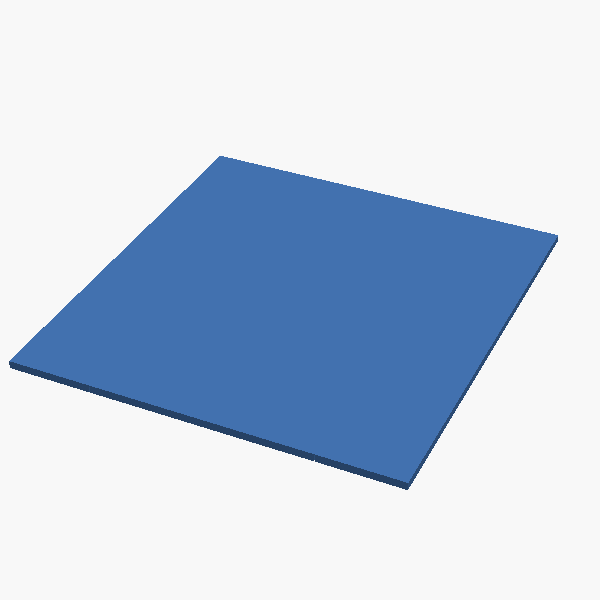
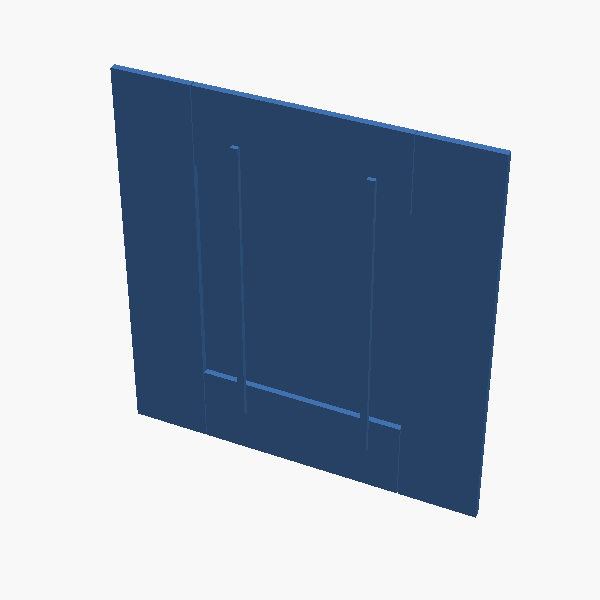
organization

diff --git a/office floor project/README.md b/office floor project/README.md
@@ -48,9 +48,12 @@
 ## 2025-04-13 lvp placement prototype
 
 <!-- AUTOGEN:START 2025-04-13 lvp placement prototype -->
+![2025-04-13 lvp placement prototype](renders/2025-04-13%20lvp%20placement%20prototype.png)
+
 **Files:**
 
 - SCAD: [2025-04-13 lvp placement prototype.scad](2025-04-13%20lvp%20placement%20prototype.scad)
+- STL: [2025-04-13 lvp placement prototype.stl](2025-04-13%20lvp%20placement%20prototype.stl)
 <!-- AUTOGEN:END 2025-04-13 lvp placement prototype -->
 
 ## 2025-06-29 fast prototype corner piece
@@ -86,28 +89,6 @@
 - STL: [2025-10-19 trap door wedge for disassembly.stl](2025-10-19%20trap%20door%20wedge%20for%20disassembly.stl)
 <!-- AUTOGEN:END 2025-10-19 trap door wedge for disassembly -->
 
-## 2025-11-01 level floor
-
-<!-- AUTOGEN:START 2025-11-01 level floor -->
-![2025-11-01 level floor](renders/2025-11-01%20level%20floor.png)
-
-**Files:**
-
-- SCAD: [2025-11-01 level floor.scad](2025-11-01%20level%20floor.scad)
-- STL: [2025-11-01 level floor.stl](2025-11-01%20level%20floor.stl)
-<!-- AUTOGEN:END 2025-11-01 level floor -->
-
-## 2025-11-15 trap door hinge foot guards
-
-<!-- AUTOGEN:START 2025-11-15 trap door hinge foot guards -->
-![2025-11-15 trap door hinge foot guards](renders/2025-11-15%20trap%20door%20hinge%20foot%20guards.png)
-
-**Files:**
-
-- SCAD: [2025-11-15 trap door hinge foot guards.scad](2025-11-15%20trap%20door%20hinge%20foot%20guards.scad)
-- STL: [2025-11-15 trap door hinge foot guards.stl](2025-11-15%20trap%20door%20hinge%20foot%20guards.stl)
-<!-- AUTOGEN:END 2025-11-15 trap door hinge foot guards -->
-
 ## 2025-12-12 level floor 2
 
 <!-- AUTOGEN:START 2025-12-12 level floor 2 -->
@@ -119,14 +100,3 @@
 - STL: [2025-12-12 level floor 2.stl](2025-12-12%20level%20floor%202.stl)
 - Variant STL: [2025-12-12 level floor 2 - all.stl](2025-12-12%20level%20floor%202%20-%20all.stl)
 <!-- AUTOGEN:END 2025-12-12 level floor 2 -->
-
-## 2025-12-28 trap door hinge foot guard 2
-
-<!-- AUTOGEN:START 2025-12-28 trap door hinge foot guard 2 -->
-![2025-12-28 trap door hinge foot guard 2](renders/2025-12-28%20trap%20door%20hinge%20foot%20guard%202.png)
-
-**Files:**
-
-- SCAD: [2025-12-28 trap door hinge foot guard 2.scad](2025-12-28%20trap%20door%20hinge%20foot%20guard%202.scad)
-- STL: [2025-12-28 trap door hinge foot guard 2.stl](2025-12-28%20trap%20door%20hinge%20foot%20guard%202.stl)
-<!-- AUTOGEN:END 2025-12-28 trap door hinge foot guard 2 -->

diff --git a/failures but good effort/README.md b/failures but good effort/README.md
@@ -109,3 +109,36 @@
 - SCAD: [2025-12-29 kaia pink cooler frame.scad](2025-12-29%20kaia%20pink%20cooler%20frame.scad)
 - STL: [2025-12-29 kaia pink cooler frame.stl](2025-12-29%20kaia%20pink%20cooler%20frame.stl)
 <!-- AUTOGEN:END 2025-12-29 kaia pink cooler frame -->
+
+## 2025-11-01 level floor
+
+<!-- AUTOGEN:START 2025-11-01 level floor -->
+![2025-11-01 level floor](renders/2025-11-01%20level%20floor.png)
+
+**Files:**
+
+- SCAD: [2025-11-01 level floor.scad](2025-11-01%20level%20floor.scad)
+- STL: [2025-11-01 level floor.stl](2025-11-01%20level%20floor.stl)
+<!-- AUTOGEN:END 2025-11-01 level floor -->
+
+## 2025-11-15 trap door hinge foot guards
+
+<!-- AUTOGEN:START 2025-11-15 trap door hinge foot guards -->
+![2025-11-15 trap door hinge foot guards](renders/2025-11-15%20trap%20door%20hinge%20foot%20guards.png)
+
+**Files:**
+
+- SCAD: [2025-11-15 trap door hinge foot guards.scad](2025-11-15%20trap%20door%20hinge%20foot%20guards.scad)
+- STL: [2025-11-15 trap door hinge foot guards.stl](2025-11-15%20trap%20door%20hinge%20foot%20guards.stl)
+<!-- AUTOGEN:END 2025-11-15 trap door hinge foot guards -->
+
+## 2025-12-28 trap door hinge foot guard 2
+
+<!-- AUTOGEN:START 2025-12-28 trap door hinge foot guard 2 -->
+![2025-12-28 trap door hinge foot guard 2](renders/2025-12-28%20trap%20door%20hinge%20foot%20guard%202.png)
+
+**Files:**
+
+- SCAD: [2025-12-28 trap door hinge foot guard 2.scad](2025-12-28%20trap%20door%20hinge%20foot%20guard%202.scad)
+- STL: [2025-12-28 trap door hinge foot guard 2.stl](2025-12-28%20trap%20door%20hinge%20foot%20guard%202.stl)
+<!-- AUTOGEN:END 2025-12-28 trap door hinge foot guard 2 -->

diff --git a/actually useful or otherwise interesting/README.md b/actually useful or otherwise interesting/README.md
@@ -468,3 +468,14 @@ With the print in place and attached to the keyboard wrist pad from the undersid
 - SCAD: [2026-05-31 shot glass gauge.scad](2026-05-31%20shot%20glass%20gauge.scad)
 - STL: [2026-05-31 shot glass gauge.stl](2026-05-31%20shot%20glass%20gauge.stl)
 <!-- AUTOGEN:END 2026-05-31 shot glass gauge -->
+
+## 2025-06-29 webcam wedge to angle it a little differently
+
+<!-- AUTOGEN:START 2025-06-29 webcam wedge to angle it a little differently -->
+![2025-06-29 webcam wedge to angle it a little differently](renders/2025-06-29%20webcam%20wedge%20to%20angle%20it%20a%20little%20differently.png)
+
+**Files:**
+
+- SCAD: [2025-06-29 webcam wedge to angle it a little differently.scad](2025-06-29%20webcam%20wedge%20to%20angle%20it%20a%20little%20differently.scad)
+- STL: [2025-06-29 webcam wedge to angle it a little differently.stl](2025-06-29%20webcam%20wedge%20to%20angle%20it%20a%20little%20differently.stl)
+<!-- AUTOGEN:END 2025-06-29 webcam wedge to angle it a little differently -->